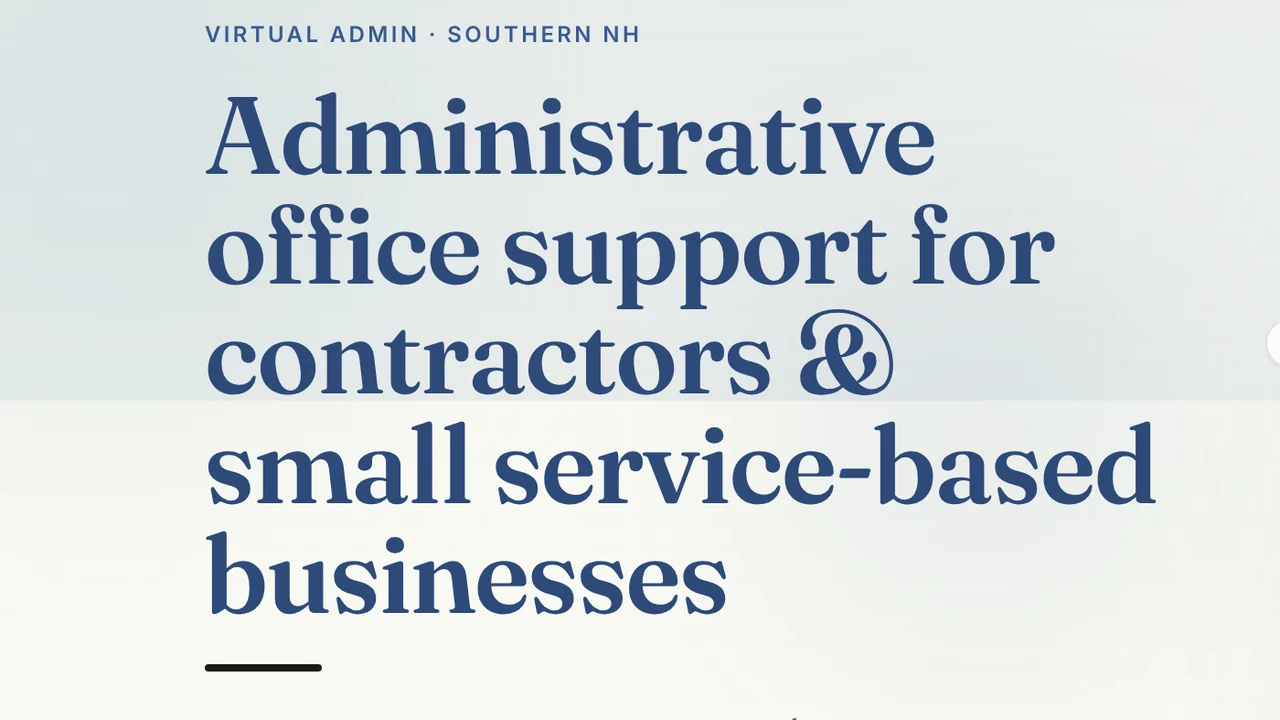
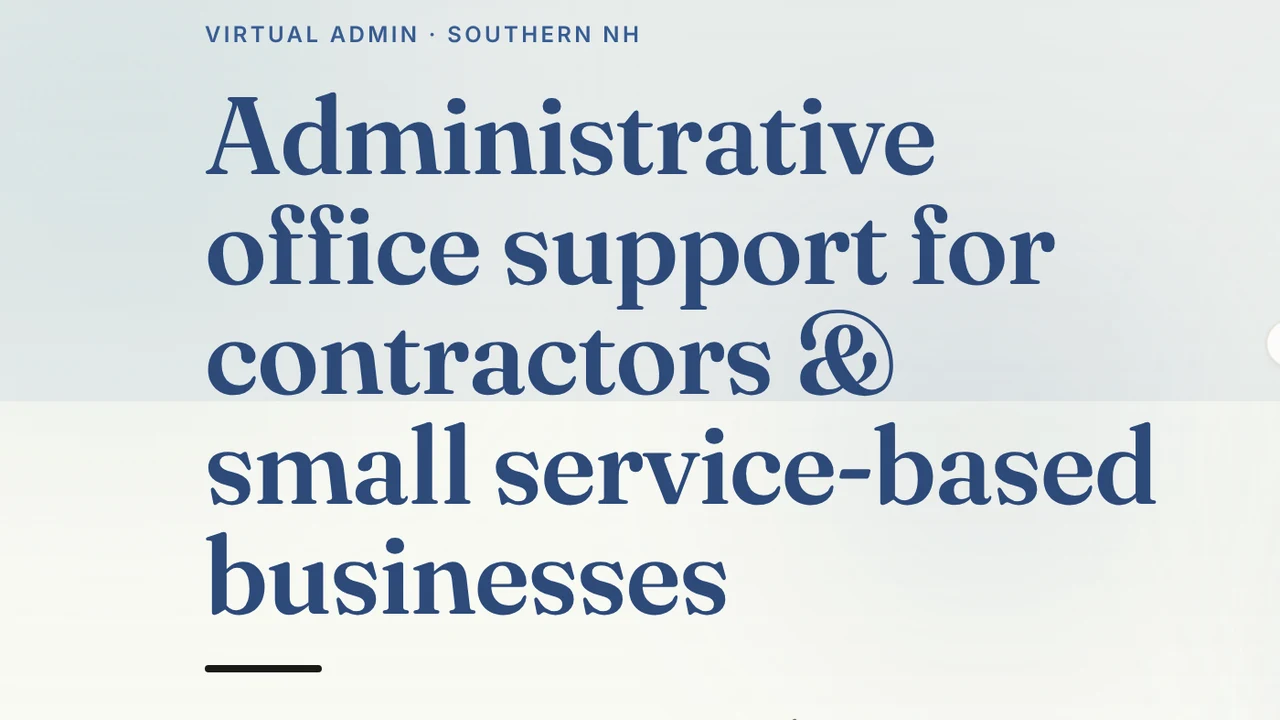
Re-capture the four live sites on a schedule, with a gate that can refuse
The screenshots went a year stale once and nobody noticed: two of Megan's
own sites had been fully redesigned while the portfolio still showed the old
ones. Nothing re-checked them, so nothing caught it.

`.github/workflows/refresh-shots.yml` now re-captures all four every Monday
and on demand, and pushes to main if anything changed.

THE GATE IS THE POINT, not the screenshotting. Client names must not appear
on this site, and a fixed crop box cannot promise that: if a client
redesigns, the box keeps "working" while quietly framing their name. So
every forbidden string -- client names, client domains, logos, any non-555
phone number -- is located in the LIVE DOM, its pixel rectangle measured
with Range.getClientRects(), and the run fails and writes nothing if any of
them falls inside a kept frame. One violation blocks all four.

PROVEN, not asserted. Widening the contractor crop until their name fell
inside it: the run exits 1, prints what it found and where, and the file on
disk stays byte-identical (md5 unchanged).

The gate also caught a real mistake of mine on its first run. My hand-framed
contractor crop ended at y=1049 and "Nash Construction" begins at y=1048 --
a one-pixel overlap, invisible when I checked the image by eye, and one
small reflow from putting their name on the page. The crop now has 28px of
margin.

It caught a false positive too, which is worth recording because the fix is
a judgement and not a loosening: the logo rule was flagging Megan's OWN
[…]

diff --git a/README.md b/README.md
@@ -510,6 +510,50 @@ column, which is copy. Nothing above ~11% down — the header covers it, and
 a creature in its fade is exactly how the `jelly.webp` rectangle got
 spotted.
 
+## Keeping the live screenshots current
+
+`.github/workflows/refresh-shots.yml` re-captures all four live sites every
+Monday, and on demand from the Actions tab. It exists because the shots went
+a year stale once and nobody noticed: two of Megan's own sites had been
+fully redesigned while the portfolio still showed the old ones.
+
+Run it locally:
+
+```
+npm install --no-save playwright && npx playwright install chromium
+node scripts/refresh-shots.mjs --check   # capture and verify, write nothing
+node scripts/refresh-shots.mjs           # ... and write the WebPs
+```
+
+**The gate is the point, not the screenshotting.** Client names must not
+appear on this site, and a fixed crop box cannot promise that: if a client
+redesigns, the box keeps "working" while quietly framing their name. So
+every forbidden string in `scripts/shot-targets.mjs` is located in the LIVE
+DOM, its pixel rectangle measured, and the run **fails and writes nothing**
+if any of them falls inside a kept frame. One violation blocks all four.
+
+Verified by deliberately widening a crop until a client's name fell inside
+it: the run exits 1 and the file on disk stays byte-identical.
+
+A red run means a site changed and a crop needs re-framing in
+`scripts/shot-targets.mjs`. Re-frame it. Do not widen the rules to make it
+pass — that is the one change that turns this from a safeguard into
+decoration.
+
+Two details worth keeping:
+
+- **Text is swapped in the DOM before the shot, not painted over after.**
+  Megan's phone number on maineclean.co becomes `555-0100` by editing the
+  text node, so it renders in the site's own font, weight and colour. The
+  painted-pixel version needed correct coordinates, had to guess the
+  background, and broke whenever the layout moved.
+- **The logo check only runs on sites Megan does not own** (`thirdParty` in
+  the target). Her own wordmark on her own site is not a leak, and treating
+  it as one made the job refuse to update maineclean.co for no reason.
+
+The workflow pushes straight to `main`, which is only safe because of the
+gate above.
+
 ## Type scale
 
 One `sectionHeading` token in `components/ui.tsx`, used by every `<h2>` that
